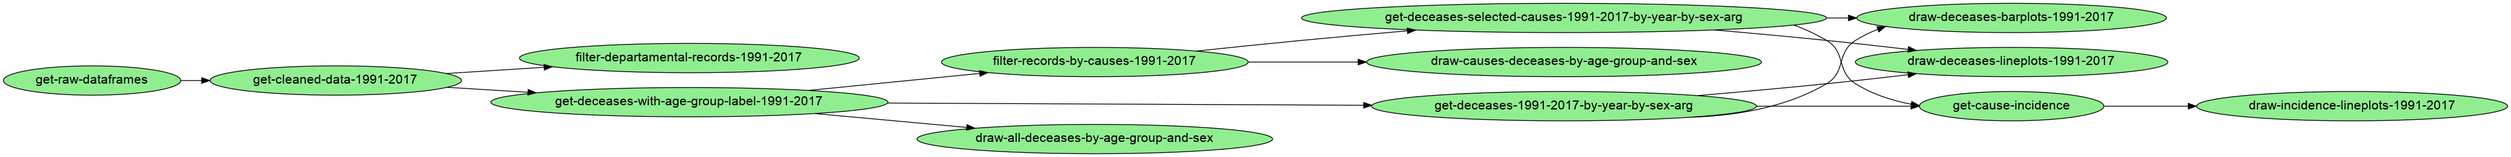
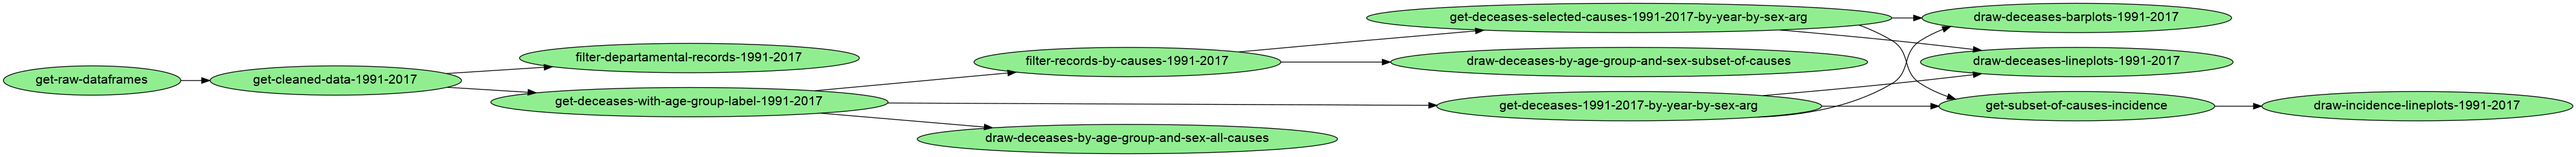
change task name

diff --git a/tasks/visualization.py b/tasks/visualization.py
@@ -98,7 +98,7 @@ def draw_deceases_lineplots(upstream, product, causeCodes):
     
     
 def draw_incidence_lineplots(upstream, product):
-    incidence_df = pandas.read_parquet(str(upstream['get-cause-incidence']))
+    incidence_df = pandas.read_parquet(str(upstream['get-subset-of-causes-incidence']))
     
     f, ax = plt.subplots(
         nrows=1,
